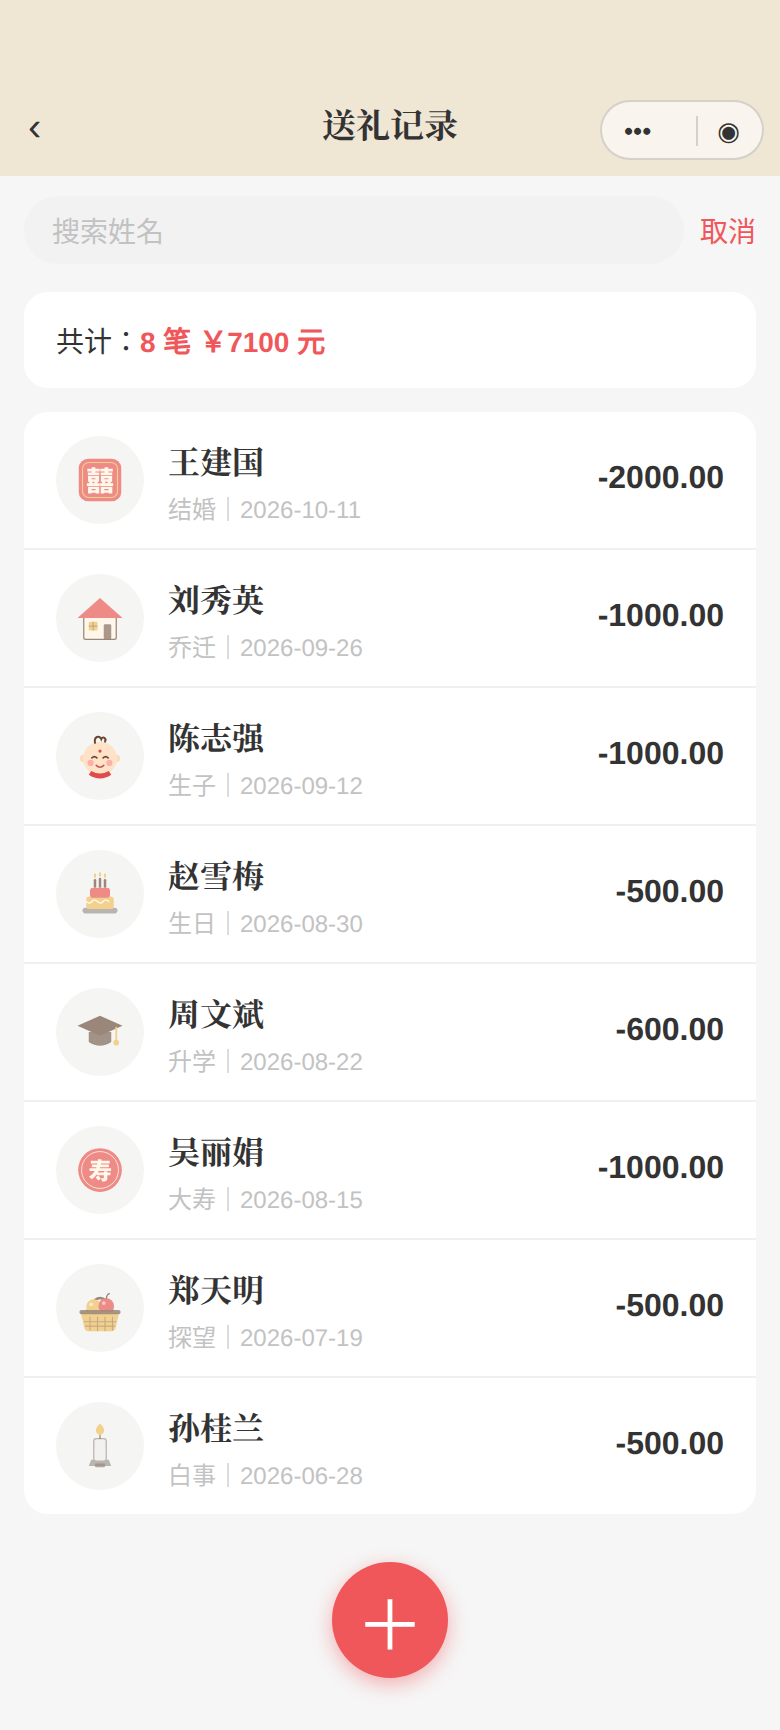
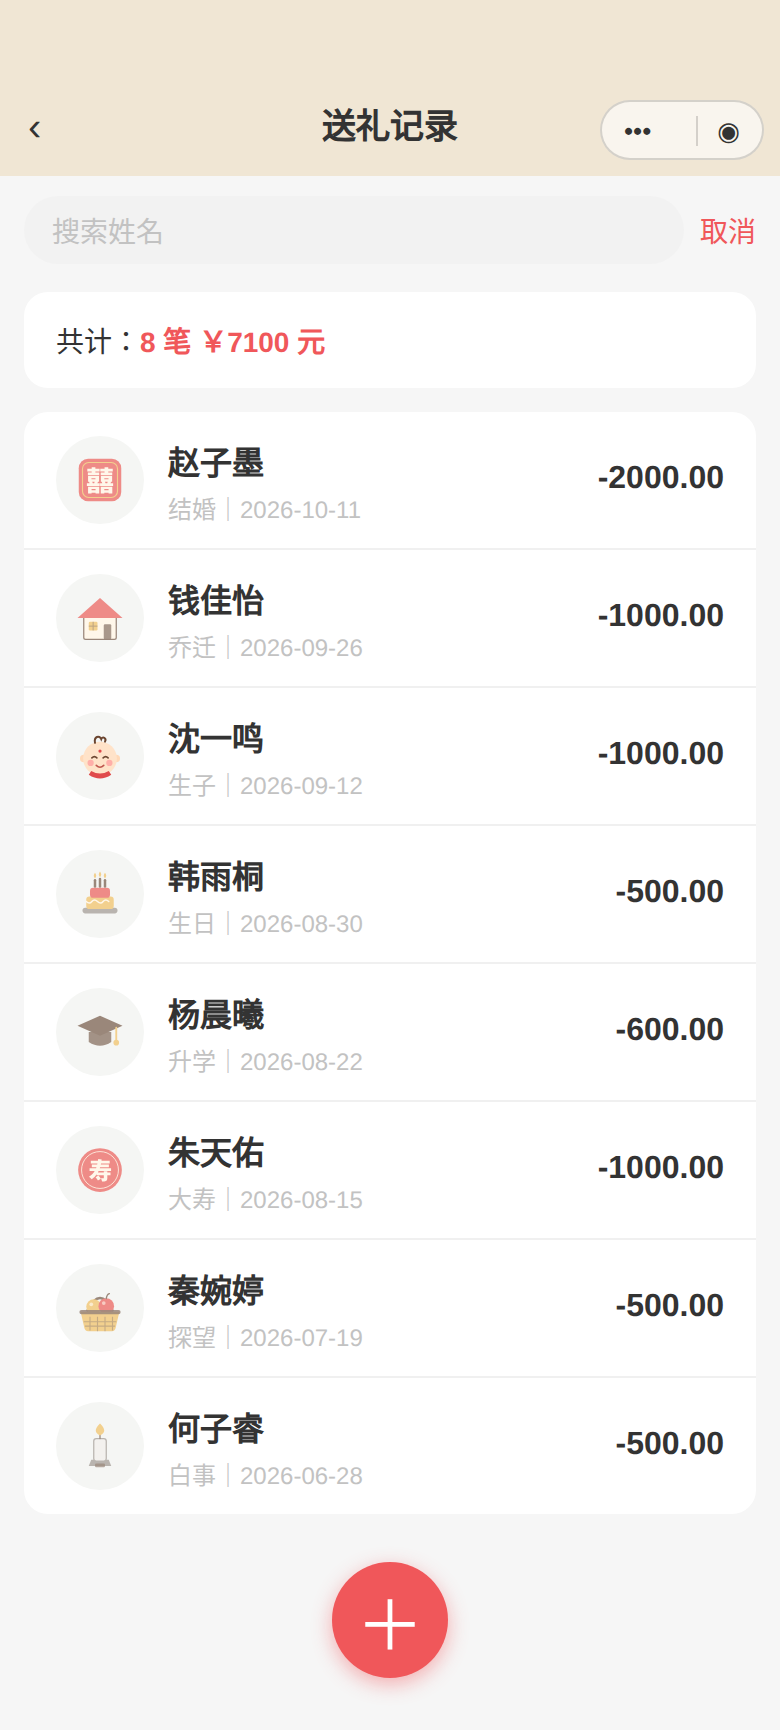
AH批引导图改版（用户意见）：人名换现代人名、收礼送礼不重名、礼薄名与竖线树收礼用亲人称谓（儿子的婚礼/女儿的升学宴）、竖线树减到4条；复刻字体改与真实页面同口径（全站黑体、去掉残留宋体）

diff --git a/docs/screens/guide-assets-src/receive-records.html b/docs/screens/guide-assets-src/receive-records.html
@@ -1,18 +1,18 @@
 <!DOCTYPE html><html><head><meta charset="utf-8"><style>
 /* 引导图1 · 收礼记录列表（礼薄详情页静态复刻）
-   数据口径（2026-10-25 用户定）：真实感人名、不用编号式假名；单个礼薄 12 条、
-   礼薄「李明轩的婚礼」（自家亲人事件）日期 2026-10-18，全图只用这一个礼薄的结婚图案。
+   数据口径（2026-10-25 用户定）：现代人名（不用老一辈名字）、不用编号式假名；单个礼薄 12 条、
+   礼薄「儿子的婚礼」（亲人称谓、不出现人名）日期 2026-10-18，全图只用这一个礼薄的结婚图案。
    列表顺序与真实页面一致：core 按 createdAt 倒序，种子按名单顺序写入，
    故显示为名单逆序。金额：条目 +formatAmount 两位小数（红色），
    共计行 formatAmountInt 整数场景。版式按 pages/receive-detail 的 wxml/wxss。 */
 * { margin:0; padding:0; box-sizing:border-box; }
 body { width:390px; background:#F6F6F6; font-family:-apple-system,"PingFang SC","Hiragino Sans GB","Microsoft YaHei",sans-serif; color:#333; font-size:15px; }
 .nav { background:#F0E6D4; height:88px; position:relative; }
-.nav .title { position:absolute; left:0; right:0; bottom:14px; text-align:center; font-size:17px; font-weight:bold; font-family:"Songti SC","STSong","Noto Serif CJK SC","SimSun",serif; }
+.nav .title { position:absolute; left:0; right:0; bottom:14px; text-align:center; font-size:17px; font-weight:bold; font-family:-apple-system,"PingFang SC","Hiragino Sans GB","Microsoft YaHei",sans-serif; }
 .nav .back { position:absolute; left:14px; bottom:12px; font-size:20px; color:#333; }
 .nav .capsule { position:absolute; right:8px; bottom:8px; width:82px; height:30px; border:1px solid rgba(0,0,0,.15); border-radius:15px; background:rgba(255,255,255,.6); display:flex; align-items:center; justify-content:space-around; color:#333; font-size:13px; }
 .card { background:#FFF; border-radius:12px; margin:12px; }
-.songti { font-family:"Songti SC","STSong","Noto Serif CJK SC","SimSun",serif; }
+.songti { font-family:-apple-system,"PingFang SC","Hiragino Sans GB","Microsoft YaHei",sans-serif; } /* 与真实页面同口径：全站黑体、无宋体（AA 清零后复刻同步） */
 .num { font-family:-apple-system,"PingFang SC","Hiragino Sans GB","Microsoft YaHei",sans-serif; }
 .pat-card { text-align:center; padding:24px 0 14px; }
 .pat-big { width:72px; height:72px; border-radius:50%; background:#F1E6D3; margin:0 auto; display:flex; align-items:center; justify-content:center; }
@@ -39,25 +39,25 @@ body { width:390px; background:#F6F6F6; font-family:-apple-system,"PingFang SC",
 <div class="card pat-card">
   <div class="pat-big"><img src="../../../miniprogram/icons/01-jiehun.svg"></div>
   <span class="pat-name songti">结婚</span>
-  <span class="event-name songti">李明轩的婚礼</span>
+  <span class="event-name songti">儿子的婚礼</span>
   <span class="event-date num">2026-10-18</span>
 </div>
 
 <div class="card summary"><span>共计：</span><span class="red num">12 笔 ￥14000 元</span></div>
 
 <div class="card">
-  <div class="rec-row"><div class="mid"><span class="nm songti">王建国</span><span class="sub">红包｜<span class="num">2026-10-18</span></span></div><span class="amt num">+2000.00</span></div>
-  <div class="rec-row"><div class="mid"><span class="nm songti">刘秀英</span><span class="sub">现金｜<span class="num">2026-10-18</span></span></div><span class="amt num">+1000.00</span></div>
-  <div class="rec-row"><div class="mid"><span class="nm songti">陈志强</span><span class="sub">转账｜<span class="num">2026-10-18</span></span></div><span class="amt num">+2000.00</span></div>
-  <div class="rec-row"><div class="mid"><span class="nm songti">赵雪梅</span><span class="sub">微信｜<span class="num">2026-10-18</span></span></div><span class="amt num">+500.00</span></div>
-  <div class="rec-row"><div class="mid"><span class="nm songti">周文斌</span><span class="sub">现金｜<span class="num">2026-10-18</span></span></div><span class="amt num">+1000.00</span></div>
-  <div class="rec-row"><div class="mid"><span class="nm songti">吴丽娟</span><span class="sub">红包｜<span class="num">2026-10-18</span></span></div><span class="amt num">+500.00</span></div>
-  <div class="rec-row"><div class="mid"><span class="nm songti">郑天明</span><span class="sub">现金｜<span class="num">2026-10-18</span></span></div><span class="amt num">+2000.00</span></div>
-  <div class="rec-row"><div class="mid"><span class="nm songti">孙桂兰</span><span class="sub">红包｜<span class="num">2026-10-18</span></span></div><span class="amt num">+1000.00</span></div>
-  <div class="rec-row"><div class="mid"><span class="nm songti">徐国栋</span><span class="sub">转账｜<span class="num">2026-10-18</span></span></div><span class="amt num">+500.00</span></div>
-  <div class="rec-row"><div class="mid"><span class="nm songti">林小芳</span><span class="sub">微信｜<span class="num">2026-10-18</span></span></div><span class="amt num">+1000.00</span></div>
-  <div class="rec-row"><div class="mid"><span class="nm songti">何建军</span><span class="sub">现金｜<span class="num">2026-10-18</span></span></div><span class="amt num">+2000.00</span></div>
-  <div class="rec-row"><div class="mid"><span class="nm songti">马雪梅</span><span class="sub">支付宝｜<span class="num">2026-10-18</span></span></div><span class="amt num">+500.00</span></div>
+  <div class="rec-row"><div class="mid"><span class="nm songti">陈子轩</span><span class="sub">红包｜<span class="num">2026-10-18</span></span></div><span class="amt num">+2000.00</span></div>
+  <div class="rec-row"><div class="mid"><span class="nm songti">林浩然</span><span class="sub">现金｜<span class="num">2026-10-18</span></span></div><span class="amt num">+1000.00</span></div>
+  <div class="rec-row"><div class="mid"><span class="nm songti">王欣怡</span><span class="sub">转账｜<span class="num">2026-10-18</span></span></div><span class="amt num">+2000.00</span></div>
+  <div class="rec-row"><div class="mid"><span class="nm songti">刘子涵</span><span class="sub">微信｜<span class="num">2026-10-18</span></span></div><span class="amt num">+500.00</span></div>
+  <div class="rec-row"><div class="mid"><span class="nm songti">张雨泽</span><span class="sub">现金｜<span class="num">2026-10-18</span></span></div><span class="amt num">+1000.00</span></div>
+  <div class="rec-row"><div class="mid"><span class="nm songti">李思远</span><span class="sub">红包｜<span class="num">2026-10-18</span></span></div><span class="amt num">+500.00</span></div>
+  <div class="rec-row"><div class="mid"><span class="nm songti">周嘉怡</span><span class="sub">现金｜<span class="num">2026-10-18</span></span></div><span class="amt num">+2000.00</span></div>
+  <div class="rec-row"><div class="mid"><span class="nm songti">吴宇航</span><span class="sub">红包｜<span class="num">2026-10-18</span></span></div><span class="amt num">+1000.00</span></div>
+  <div class="rec-row"><div class="mid"><span class="nm songti">郑梦瑶</span><span class="sub">转账｜<span class="num">2026-10-18</span></span></div><span class="amt num">+500.00</span></div>
+  <div class="rec-row"><div class="mid"><span class="nm songti">徐俊杰</span><span class="sub">微信｜<span class="num">2026-10-18</span></span></div><span class="amt num">+1000.00</span></div>
+  <div class="rec-row"><div class="mid"><span class="nm songti">孙晓彤</span><span class="sub">现金｜<span class="num">2026-10-18</span></span></div><span class="amt num">+2000.00</span></div>
+  <div class="rec-row"><div class="mid"><span class="nm songti">马文博</span><span class="sub">支付宝｜<span class="num">2026-10-18</span></span></div><span class="amt num">+500.00</span></div>
 </div>
 
 <div class="fab-zone"><div class="fab">＋</div></div>

diff --git a/docs/screens/guide-assets-src/gifts.html b/docs/screens/guide-assets-src/gifts.html
@@ -1,17 +1,17 @@
 <!DOCTYPE html><html><head><meta charset="utf-8"><style>
 /* 引导图2 · 送礼记录列表（静态复刻）
-   数据口径（2026-10-25 用户定）：真实感人名、不用编号式假名；送礼 8 条、标签不限种类。
+   数据口径（2026-10-25 用户定）：现代人名、不用编号式假名，且与收礼图人名不重名；送礼 8 条、标签不限种类。
    列表顺序与真实页面一致：core 按 createdAt 倒序，最新在上。
    金额：条目 formatAmount(-金额) 两位小数；共计行 formatAmountInt 整数场景。
    版式按 pages/gifts 的 wxml/wxss（横置入口为开关项，默认关闭态不渲染）。 */
 * { margin:0; padding:0; box-sizing:border-box; }
 body { width:390px; background:#F6F6F6; font-family:-apple-system,"PingFang SC","Hiragino Sans GB","Microsoft YaHei",sans-serif; color:#333; font-size:15px; }
 .nav { background:#F0E6D4; height:88px; position:relative; }
-.nav .title { position:absolute; left:0; right:0; bottom:14px; text-align:center; font-size:17px; font-weight:bold; font-family:"Songti SC","STSong","Noto Serif CJK SC","SimSun",serif; }
+.nav .title { position:absolute; left:0; right:0; bottom:14px; text-align:center; font-size:17px; font-weight:bold; font-family:-apple-system,"PingFang SC","Hiragino Sans GB","Microsoft YaHei",sans-serif; }
 .nav .back { position:absolute; left:14px; bottom:12px; font-size:20px; color:#333; }
 .nav .capsule { position:absolute; right:8px; bottom:8px; width:82px; height:30px; border:1px solid rgba(0,0,0,.15); border-radius:15px; background:rgba(255,255,255,.6); display:flex; align-items:center; justify-content:space-around; color:#333; font-size:13px; }
 .card { background:#FFF; border-radius:12px; margin:12px; }
-.songti { font-family:"Songti SC","STSong","Noto Serif CJK SC","SimSun",serif; }
+.songti { font-family:-apple-system,"PingFang SC","Hiragino Sans GB","Microsoft YaHei",sans-serif; } /* 与真实页面同口径：全站黑体、无宋体（AA 清零后复刻同步） */
 .searchbar { display:flex; align-items:center; padding:10px 12px 2px; }
 .searchbox { flex:1; background:#F2F2F2; border-radius:17px; height:34px; display:flex; align-items:center; padding:0 14px; color:#C2C2C2; font-size:14px; }
 .search-cancel { color:#F0575A; font-size:14px; margin-left:8px; white-space:nowrap; }
@@ -35,14 +35,14 @@ body { width:390px; background:#F6F6F6; font-family:-apple-system,"PingFang SC",
 <div class="card summary"><span>共计：</span><span class="red">8 笔 ￥7100 元</span></div>
 
 <div class="card">
-  <div class="gift-row"><div class="pat"><img src="../../../miniprogram/icons/01-jiehun.svg"></div><div class="mid"><span class="nm songti">王建国</span><span class="sub">结婚｜2026-10-11</span></div><span class="amt">-2000.00</span></div>
-  <div class="gift-row"><div class="pat"><img src="../../../miniprogram/icons/07-qiaoqian.svg"></div><div class="mid"><span class="nm songti">刘秀英</span><span class="sub">乔迁｜2026-09-26</span></div><span class="amt">-1000.00</span></div>
-  <div class="gift-row"><div class="pat"><img src="../../../miniprogram/icons/02-shengzi.svg"></div><div class="mid"><span class="nm songti">陈志强</span><span class="sub">生子｜2026-09-12</span></div><span class="amt">-1000.00</span></div>
-  <div class="gift-row"><div class="pat"><img src="../../../miniprogram/icons/05-shengri.svg"></div><div class="mid"><span class="nm songti">赵雪梅</span><span class="sub">生日｜2026-08-30</span></div><span class="amt">-500.00</span></div>
-  <div class="gift-row"><div class="pat"><img src="../../../miniprogram/icons/06-shengxue.svg"></div><div class="mid"><span class="nm songti">周文斌</span><span class="sub">升学｜2026-08-22</span></div><span class="amt">-600.00</span></div>
-  <div class="gift-row"><div class="pat"><img src="../../../miniprogram/icons/08-dashou.svg"></div><div class="mid"><span class="nm songti">吴丽娟</span><span class="sub">大寿｜2026-08-15</span></div><span class="amt">-1000.00</span></div>
-  <div class="gift-row"><div class="pat"><img src="../../../miniprogram/icons/03-tanwang.svg"></div><div class="mid"><span class="nm songti">郑天明</span><span class="sub">探望｜2026-07-19</span></div><span class="amt">-500.00</span></div>
-  <div class="gift-row"><div class="pat"><img src="../../../miniprogram/icons/09-baishi.svg"></div><div class="mid"><span class="nm songti">孙桂兰</span><span class="sub">白事｜2026-06-28</span></div><span class="amt">-500.00</span></div>
+  <div class="gift-row"><div class="pat"><img src="../../../miniprogram/icons/01-jiehun.svg"></div><div class="mid"><span class="nm songti">赵子墨</span><span class="sub">结婚｜2026-10-11</span></div><span class="amt">-2000.00</span></div>
+  <div class="gift-row"><div class="pat"><img src="../../../miniprogram/icons/07-qiaoqian.svg"></div><div class="mid"><span class="nm songti">钱佳怡</span><span class="sub">乔迁｜2026-09-26</span></div><span class="amt">-1000.00</span></div>
+  <div class="gift-row"><div class="pat"><img src="../../../miniprogram/icons/02-shengzi.svg"></div><div class="mid"><span class="nm songti">沈一鸣</span><span class="sub">生子｜2026-09-12</span></div><span class="amt">-1000.00</span></div>
+  <div class="gift-row"><div class="pat"><img src="../../../miniprogram/icons/05-shengri.svg"></div><div class="mid"><span class="nm songti">韩雨桐</span><span class="sub">生日｜2026-08-30</span></div><span class="amt">-500.00</span></div>
+  <div class="gift-row"><div class="pat"><img src="../../../miniprogram/icons/06-shengxue.svg"></div><div class="mid"><span class="nm songti">杨晨曦</span><span class="sub">升学｜2026-08-22</span></div><span class="amt">-600.00</span></div>
+  <div class="gift-row"><div class="pat"><img src="../../../miniprogram/icons/08-dashou.svg"></div><div class="mid"><span class="nm songti">朱天佑</span><span class="sub">大寿｜2026-08-15</span></div><span class="amt">-1000.00</span></div>
+  <div class="gift-row"><div class="pat"><img src="../../../miniprogram/icons/03-tanwang.svg"></div><div class="mid"><span class="nm songti">秦婉婷</span><span class="sub">探望｜2026-07-19</span></div><span class="amt">-500.00</span></div>
+  <div class="gift-row"><div class="pat"><img src="../../../miniprogram/icons/09-baishi.svg"></div><div class="mid"><span class="nm songti">何子睿</span><span class="sub">白事｜2026-06-28</span></div><span class="amt">-500.00</span></div>
 </div>
 
 <div class="fab-zone"><div class="fab">＋</div></div>

diff --git a/docs/screens/guide-assets-src/timeline.html b/docs/screens/guide-assets-src/timeline.html
@@ -1,17 +1,17 @@
 <!DOCTYPE html><html><head><meta charset="utf-8"><style>
 /* 引导图3 · 往来竖线树（静态复刻）
-   数据口径（2026-10-25 用户定）：与亲友「王建国」的往来；送礼多条、标签不限；
-   收礼条目用自家亲人的事件命名（李福田的寿宴、李明轩的婚礼）。
+   数据口径（2026-10-25 用户定）：与亲友「陆子昂」的往来，全图共 4 条；送礼用标签；
+   收礼条目不出现人名、用亲人称谓的事件命名（女儿的升学宴、儿子的婚礼）。
    顺序与真实页面一致：core/stats 按日期从早到晚。金额：条目无 ¥ 前缀、
    送出负号/收到正号、两位小数（formatAmount）；底部汇总带 ¥ 两位小数，
    差额 = |收到 − 送出|。版式按 pages/timeline 的 wxml/wxss（rpx 按 390/750 换算）。 */
 * { margin:0; padding:0; box-sizing:border-box; }
 body { width:390px; background:#F6F6F6; font-family:-apple-system,"PingFang SC","Hiragino Sans GB","Microsoft YaHei",sans-serif; color:#333; font-size:15px; }
 .nav { background:#FFFFFF; height:88px; position:relative; }
-.nav .title { position:absolute; left:0; right:0; bottom:14px; text-align:center; font-size:17px; font-weight:bold; font-family:"Songti SC","STSong","Noto Serif CJK SC","SimSun",serif; }
+.nav .title { position:absolute; left:0; right:0; bottom:14px; text-align:center; font-size:17px; font-weight:bold; font-family:-apple-system,"PingFang SC","Hiragino Sans GB","Microsoft YaHei",sans-serif; }
 .nav .back { position:absolute; left:14px; bottom:12px; font-size:20px; color:#333; }
 .nav .capsule { position:absolute; right:8px; bottom:8px; width:82px; height:30px; border:1px solid rgba(0,0,0,.15); border-radius:15px; background:rgba(255,255,255,.6); display:flex; align-items:center; justify-content:space-around; color:#333; font-size:13px; }
-.songti { font-family:"Songti SC","STSong","Noto Serif CJK SC","SimSun",serif; }
+.songti { font-family:-apple-system,"PingFang SC","Hiragino Sans GB","Microsoft YaHei",sans-serif; } /* 与真实页面同口径：全站黑体、无宋体（AA 清零后复刻同步） */
 .kindbar { display:flex; background:#CEA64F; color:#fff; font-size:16px; font-weight:600; }
 .kind-half { flex:1; text-align:center; padding:10px 0; }
 .tl { position:relative; background:#fff; padding:19px 0 6px; }
@@ -28,24 +28,21 @@ body { width:390px; background:#F6F6F6; font-family:-apple-system,"PingFang SC",
 .sumbar { background:#FDF6E3; text-align:center; padding:15px 0 19px; font-size:16px; line-height:2; color:#333; }
 .sumbar .dl { color:#E05353; font-weight:700; }
 </style></head><body>
-<div class="nav"><div class="back">‹</div><div class="title">往来记录 - 王建国</div><div class="capsule"><span>•••</span><span style="border-left:1px solid rgba(0,0,0,.15);padding-left:10px">◉</span></div></div>
+<div class="nav"><div class="back">‹</div><div class="title">往来记录 - 陆子昂</div><div class="capsule"><span>•••</span><span style="border-left:1px solid rgba(0,0,0,.15);padding-left:10px">◉</span></div></div>
 
 <div class="kindbar"><div class="kind-half songti">送出</div><div class="kind-half songti">收到</div></div>
 
 <div class="tl">
   <div class="tl-line"></div>
-  <div class="trow"><div class="tcell left"><div class="tdate">2023-05-20</div><div class="treason songti">结婚<img class="tpen" src="../../../miniprogram/images/icons/pen.svg"></div><div class="tamt">-2000.00</div></div><div class="tdot"></div><div class="tcell right"></div></div>
-  <div class="trow"><div class="tcell left"><div class="tdate">2024-02-10</div><div class="treason songti">压岁<img class="tpen" src="../../../miniprogram/images/icons/pen.svg"></div><div class="tamt">-500.00</div></div><div class="tdot"></div><div class="tcell right"></div></div>
   <div class="trow"><div class="tcell left"><div class="tdate">2024-11-03</div><div class="treason songti">乔迁<img class="tpen" src="../../../miniprogram/images/icons/pen.svg"></div><div class="tamt">-1000.00</div></div><div class="tdot"></div><div class="tcell right"></div></div>
-  <div class="trow"><div class="tcell left"><div class="tdate">2025-06-15</div><div class="treason songti">生子<img class="tpen" src="../../../miniprogram/images/icons/pen.svg"></div><div class="tamt">-800.00</div></div><div class="tdot"></div><div class="tcell right"></div></div>
-  <div class="trow"><div class="tcell left"></div><div class="tdot"></div><div class="tcell right"><div class="tdate">2025-09-12</div><div class="treason songti">李福田的寿宴<img class="tpen" src="../../../miniprogram/images/icons/pen.svg"></div><div class="tamt">+1000.00</div></div></div>
+  <div class="trow"><div class="tcell left"></div><div class="tdot"></div><div class="tcell right"><div class="tdate">2025-09-12</div><div class="treason songti">女儿的升学宴<img class="tpen" src="../../../miniprogram/images/icons/pen.svg"></div><div class="tamt">+1000.00</div></div></div>
   <div class="trow"><div class="tcell left"><div class="tdate">2026-03-08</div><div class="treason songti">生日<img class="tpen" src="../../../miniprogram/images/icons/pen.svg"></div><div class="tamt">-600.00</div></div><div class="tdot"></div><div class="tcell right"></div></div>
-  <div class="trow"><div class="tcell left"></div><div class="tdot"></div><div class="tcell right"><div class="tdate">2026-10-18</div><div class="treason songti">李明轩的婚礼<img class="tpen" src="../../../miniprogram/images/icons/pen.svg"></div><div class="tamt">+2000.00</div></div></div>
+  <div class="trow"><div class="tcell left"></div><div class="tdot"></div><div class="tcell right"><div class="tdate">2026-10-18</div><div class="treason songti">儿子的婚礼<img class="tpen" src="../../../miniprogram/images/icons/pen.svg"></div><div class="tamt">+2000.00</div></div></div>
 </div>
 
 <div class="sumbar">
-  <div>送出：¥4900.00</div>
+  <div>送出：¥1600.00</div>
   <div>收到：¥3000.00</div>
-  <div><span class="dl">差额：</span>¥1900.00</div>
+  <div><span class="dl">差额：</span>¥1400.00</div>
 </div>
 </body></html>

diff --git a/tests/test-batch-ah.js b/tests/test-batch-ah.js
@@ -27,17 +27,24 @@ const read = (p) => fs.readFileSync(p, 'utf8');
   assert(wxss.includes('.act-edit { background: #FCA523; }'), '修改橙 #FCA523');
   assert(wxss.includes('.act-del { background: #F06D6A; }'), '删除红 #F06D6A');
 
-  const OLD = ['欧阳修远', '周十', '孙九', '陈八', '刘七', '赵六', '王五', '张三', '李四'];
+  const OLD = ['欧阳修远', '周十', '孙九', '陈八', '刘七', '赵六', '王五', '张三', '李四',
+    '王建国', '刘秀英', '陈志强', '孙桂兰', '李明轩', '李福田'];
   const recv = read('docs/screens/guide-assets-src/receive-records.html');
   const gifts = read('docs/screens/guide-assets-src/gifts.html');
   const tl = read('docs/screens/guide-assets-src/timeline.html');
   for (const [name, src] of [['收礼图', recv], ['送礼图', gifts], ['竖线树图', tl]]) {
     for (const o of OLD) assert(!src.includes(o), `${name}不得再有假名 ${o}`);
   }
-  assert(recv.includes('李明轩的婚礼') && recv.includes('王建国'), '收礼图为李明轩婚礼、真实人名');
-  assert((tl.match(/<div class="trow">/g) || []).length === 7, '竖线树 7 条');
-  assert(tl.includes('李福田的寿宴') && tl.includes('李明轩的婚礼'), '竖线树收礼用自家亲人事件命名');
-  const giftsLeft = (tl.match(/tcell left"><div class="tdate">/g) || []).length;
-  assert(giftsLeft >= 5, `竖线树送礼至少 5 条（实际 ${giftsLeft}）`);
+  assert(recv.includes('儿子的婚礼') && recv.includes('陈子轩'), '收礼图为儿子的婚礼、现代人名');
+  assert(gifts.includes('赵子墨'), '送礼图为另一批现代人名');
+  const namesOf = (src) => [...src.matchAll(/class="nm songti">([^<]+)</g)].map((m) => m[1]);
+  const recvNames = namesOf(recv); const giftNames = namesOf(gifts);
+  assert(recvNames.length === 12 && giftNames.length === 8, '收礼 12 人、送礼 8 人');
+  assert(recvNames.every((n) => !giftNames.includes(n)), '收礼与送礼人名不得重名（用户定）');
+  assert((tl.match(/<div class="trow">/g) || []).length === 4, '竖线树共 4 条（用户定 3-4 条）');
+  assert(tl.includes('女儿的升学宴') && tl.includes('儿子的婚礼'), '竖线树收礼用亲人称谓事件命名、不出现人名');
+  for (const src of [recv, gifts, tl]) {
+    assert(!/\.songti \{ font-family:"Songti/.test(src) && !src.includes('STSong'), '复刻图字体须与真实页面同口径（全站黑体、无宋体）');
+  }
   console.log('test-batch-ah OK');
 })();
